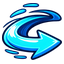
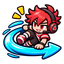
Ícones próprios do M4 e habilidades com o personagem
- 33 ícones aprovados pelo Thaller: Dado de 20 Lados, Régua de 1 Metro,
  Caneta Bic, Corrente de WhatsApp (logo do WhatsApp), Fake News, Kit de
  Primeiros Socorros, Atestado Médico, Noite sem Dormir, Pré-treino
  Duvidoso, Parcelar no Cartão, Mensalidade e Convite da Atlética (emblema
  da Invasora) e as 21 habilidades, cada uma com o personagem da classe.
- Armas, colab e itens apontam para os ícones novos.
- Teste: arma, colab, item e habilidade não repetem ícone.

diff --git a/jogo/itens/itens.py b/jogo/itens/itens.py
@@ -267,7 +267,7 @@ class KitDePrimeirosSocorros(Item):
 
     NOME = "Kit de Primeiros Socorros"
     DESCRICAO = "A cada 30 s, o próximo inimigo eliminado deixa cair uma poção de vida."
-    ICONE = "legado/itens/potion_hp.png"
+    ICONE = "icones/kit_primeiros_socorros.png"
     MELHORIAS = ("A poção vem a cada 24 s.", "A poção vem a cada 18 s.", "A poção vem a cada 12 s.")
     INTERVALOS = (30.0, 24.0, 18.0, 12.0)     # segundos entre uma poção e outra, por nível
 
@@ -301,7 +301,7 @@ class AtestadoMedico(Item):
     estava em volta (chefes e mini-chefes aguentam)."""
     NOME = "Atestado Médico"
     DESCRICAO = "Uma vez por partida: em vez de cair, volta com 50% da vida e derruba os inimigos em volta."
-    ICONE = "icones/caderno.png"
+    ICONE = "icones/atestado.png"
     NIVEL_MAXIMO = 1
     MELHORIAS = ()
     VIDA = 0.50
@@ -329,7 +329,7 @@ class AtestadoMedico(Item):
 class NoiteSemDormir(Item):
     NOME = "Noite sem Dormir"
     DESCRICAO = "+7,5% de dano e armas 2,5% mais rápidas por nível, mas leva 30% a mais de dano."
-    ICONE = "icones/energetico.png"
+    ICONE = "icones/noite_sem_dormir.png"
     MELHORIAS = ("+7,5% de dano e -2,5% de recarga.",) * 3
     DANO_RECEBIDO = 1.30
 
@@ -344,7 +344,7 @@ class NoiteSemDormir(Item):
 class PreTreinoDuvidoso(Item):
     NOME = "Pré-treino Duvidoso"
     DESCRICAO = "+10% de dano por nível, mas a vida escorre 5% por segundo até sobrar 1."
-    ICONE = "icones/energetico.png"
+    ICONE = "icones/pre_treino.png"
     MELHORIAS = ("+10% de dano.",) * 3
     ESCORRE = 0.05                   # fração da vida máxima por segundo
 
@@ -359,7 +359,7 @@ class PreTreinoDuvidoso(Item):
 class ParcelarNoCartao(Item):
     NOME = "Parcelar no Cartão"
     DESCRICAO = "Cada golpe entra só 30% na hora; o resto vem parcelado em 3 s. A parcela que mataria vence a dívida toda."
-    ICONE = "icones/moeda.png"
+    ICONE = "icones/parcelar.png"
     MELHORIAS = ("Parcelado em 4 s.", "Parcelado em 5 s.", "Parcelado em 6 s.")
     NA_HORA = 0.30
     PARCELAS = (3.0, 4.0, 5.0, 6.0)  # segundos em que o resto do golpe é cobrado
@@ -414,7 +414,7 @@ class ParcelarNoCartao(Item):
 class MensalidadeDaAtletica(Item):
     NOME = "Mensalidade da Atlética"
     DESCRICAO = "Custa 3 moedas por segundo; enquanto tiver moedas: +7,5% de dano por nível e -10% de dano recebido."
-    ICONE = "icones/atletica.png"
+    ICONE = "icones/mensalidade.png"
     MELHORIAS = ("+7,5% de dano enquanto paga.",) * 3
     CUSTO = 3                        # moedas por segundo
     PROTECAO = 0.90

diff --git a/testes/test_progressao.py b/testes/test_progressao.py
@@ -257,3 +257,13 @@ def test_bigorna_nao_afia_colab(jogo_limpo):
     jogo.jogador.armas = [colab]
     Bigorna(jogo.jogador.posicao).ao_coletar(jogo)
     assert colab.carimbos == 0
+
+
+def test_cada_carta_tem_icone_proprio():
+    """Arma, colab, item e habilidade não repetem ícone: na carta e no HUD, ícone igual confunde."""
+    from collections import Counter
+    from jogo.jogador.classes import CLASSES
+    habilidades = [type(h) for classe in CLASSES for h in classe((0, 0)).habilidades_da_classe]
+    cartas = list(Progressao.ARMAS) + list(Colab.RECEITAS) + list(ITENS) + habilidades
+    repetidos = {icone: n for icone, n in Counter(c.ICONE for c in cartas).items() if n > 1}
+    assert not repetidos

diff --git a/jogo/armas/colabs.py b/jogo/armas/colabs.py
@@ -149,7 +149,7 @@ class FakeNews(ArmaContinua, Colab):
     """O ChatGPT inventa a notícia e a Corrente de WhatsApp espalha: quem acredita passa a lutar do seu lado."""
 
     NOME = "Fake News"
-    ICONE = "sprites/chatgpt.png"
+    ICONE = "icones/fake_news.png"
     DESCRICAO = ("O ChatGPT inventa e a corrente espalha: a cada 0,8 s uma notícia falsa pula por 12 inimigos, "
                  "e 30% de quem ela acerta acredita e luta do seu lado por 4 s.")
     INGREDIENTES = (CorrenteDeWhatsApp, MascoteChatGPT)

diff --git a/jogo/armas/dado.py b/jogo/armas/dado.py
@@ -9,7 +9,7 @@ from jogo.nucleo.recursos import Recursos
 
 class DadoDeVinteLados(ArmaDeDisparo):
     NOME = "Dado de 20 Lados"
-    ICONE = "icones/rolagem_de_iniciativa.png"
+    ICONE = "icones/dado_20.png"
     DESCRICAO = "Joga um d20 no inimigo mais perto: o dano é o número que sai. 20 é crítico triplo; 1 erra."
     ATRIBUTOS = {
         "dano": (1.0, 1.2, 1.4, 2.3),          # dano por ponto do dado

diff --git a/jogo/armas/corrente_whatsapp.py b/jogo/armas/corrente_whatsapp.py
@@ -6,7 +6,7 @@ from jogo.nucleo.recursos import Recursos
 
 class CorrenteDeWhatsApp(ArmaDeDisparo):
     NOME = "Corrente de WhatsApp"
-    ICONE = "icones/wifi.png"
+    ICONE = "icones/corrente_whatsapp.png"
     DESCRICAO = "\"Encaminhe para 10 amigos\": acerta o inimigo mais perto e pula para os vizinhos, sem repetir."
     ATRIBUTOS = {
         "dano": (14, 18, 23, 37),

diff --git a/jogo/armas/regua.py b/jogo/armas/regua.py
@@ -6,7 +6,7 @@ from jogo.nucleo.recursos import Recursos
 
 class ReguaDeUmMetro(ArmaDeDisparo):
     NOME = "Régua de 1 Metro"
-    ICONE = "icones/caderno.png"
+    ICONE = "icones/regua.png"
     DESCRICAO = "Uma régua de madeira que varre um arco na frente do aluno, na direção da mira."
     ATRIBUTOS = {
         "dano": (18, 24, 31, 50),

diff --git a/jogo/armas/caneta_bic.py b/jogo/armas/caneta_bic.py
@@ -6,7 +6,7 @@ from jogo.nucleo.recursos import Recursos
 
 class CanetaBic(ArmaDeDisparo):
     NOME = "Caneta Bic"
-    ICONE = "icones/caneta_vermelha.png"
+    ICONE = "icones/caneta_bic.png"
     DESCRICAO = "Estocadas rápidas de caneta na direção da mira. Curta, mas não para."
     ATRIBUTOS = {
         "dano": (7, 9, 12, 20),

diff --git a/docs/registro_ia.md b/docs/registro_ia.md
@@ -76,3 +76,4 @@ Segue o formato pedido no enunciado: uma tabela por etapa, com onde a IA foi usa
 | 4 | Semestre de 20 minutos, marco 2 (Claude Code, com testes): Cálculo II como segunda matéria do professor de Cálculo, preparo antes do golpe dos professores, junção do robô do simulador e do Leão do PROERD (com a fase 2 dos 12 mini-chefes), ataques 30% mais rápidos e aura na fase 2, experiência dos mini-chefes valendo 2 a 3 níveis do aluno | Duas sessões fizeram a animação de ataque dos professores de jeitos diferentes; ficou o preparo antes do golpe, porque golpe que anima depois de sair não avisa o jogador. A curva de experiência dos comuns foi adiada para o balanceamento, porque as habilidades e armas novas vão mudar o dano do aluno. O ET ficava mais lento na fase 2; corrigimos. |
 | 4 | Semestre de 20 minutos, marco 3 (Claude Code, com testes): Habilidade abstrata e 21 habilidades nas cartas (3 por classe, 3 níveis), ganchos comuns a itens e habilidades (ReageAoJogo), Garrafa de Café como a munição do jogo na Virada de Noite do Programador, Super Saiyajin em níveis, Zoltraak 8d6, zona da Revisão, Calourada, períodos do Calouro e o veterano que usa a arma inicial | A cadência da Virada perdia tiros com o quadro de 1/30 s (a espera era zerada em vez de acumulada); corrigimos. O simulador achou um conflito de nome: o MiniChefe já tinha um `marcar` para efeitos, e a marca da Caneta Vermelha passou a se chamar `marcar_com_x`. A passiva antiga, o Speedrun e o Trote Reverso saíram. |
 | 4 | Semestre de 20 minutos, marco 4 (Claude Code, com testes): quatro armas novas (Dado de 20 Lados como arma inicial do Mestre de RPG, Régua de 1 Metro, Caneta Bic e Corrente de WhatsApp, com golpes desenhados por código), a colab Fake News (Corrente + ChatGPT), cinco itens novos (Atestado Médico, Noite sem Dormir, Pré-treino Duvidoso, Parcelar no Cartão, Mensalidade da Atlética), quatro itens refeitos e a saída do Caderno de Resumos e do Relógio de Pulso | A primeira rodada do simulador, com duas sementes por classe, parecia mostrar o jogo mais difícil depois do M4; com oito sementes, a versão antiga e a nova davam o mesmo resultado, e a diferença era ruído. A regra de que o 4º nível de toda arma dá pelo menos 1,6 vez o dano do 3º pegou os primeiros números das armas novas, que foram subidos. Os ícones das armas e dos itens novos ainda são emprestados de outros até a arte ser aprovada. |
+| 4 | Ícones próprios para as armas, a colab e os itens novos do M4 e para as 21 habilidades, agora com o personagem de cada classe usando a habilidade (Claude Code, com arte do ChatGPT e teste contra ícone repetido) | Pedimos o logo do WhatsApp na Corrente e na Fake News e o emblema da nossa atlética, a Invasora, na Mensalidade e no Convite da Atlética. Nas folhas das habilidades os personagens encostavam uns nos outros e a ferramenta de corte não achava o vão; recortamos por grade, mandando cada pedaço para a célula do seu centro. |
